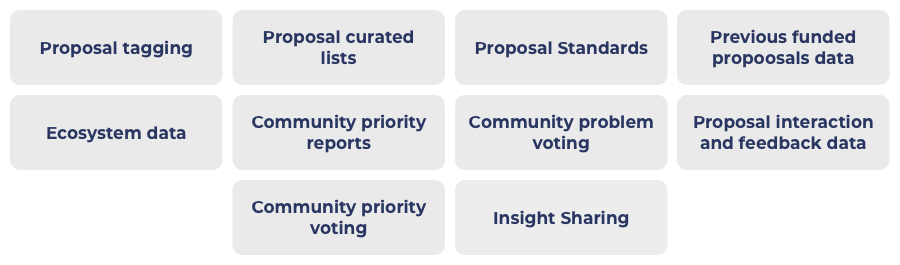
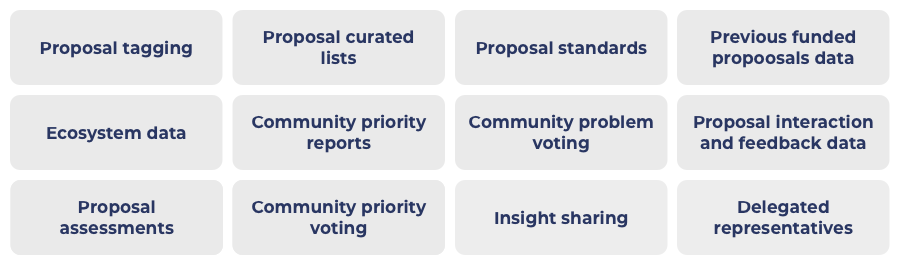
GitBook: [#98] No subject

diff --git a/what-is-funding-categorisation.md b/what-is-funding-categorisation.md
@@ -6,32 +6,30 @@ description: Explaining what funding categorisation is and why it is important
 
 ### What is funding categorisation?
 
-Funding categorisations are incentive structures that allow people to request funding for initiatives they want to contribute towards.&#x20;
+A funding categorisation is an incentive structure that allows people to request funding for certain initiatives.&#x20;
 
-Initiatives submitted as proposals will need to match the purpose and scope of the funding categorisation to be considered.
+Initiatives are submitted as proposals and will need to match the purpose and scope of the funding categorisation to be accepted and considered for voting.
 
-Funding categorisations can be focussed on funding ideas that someone wants to execute or for funding contributors that are looking to work in the ecosystem.
+Funding categorisations can be focussed on funding ideas that someone wants to execute or could be focussed on funding contributors that are looking to work in the ecosystem.
 
-Idea based funding categorisations will group together certain focus areas into each categorisation. Examples focus areas could include DeFi, events or identity tools & software.
+Idea based funding categorisations will group together certain focus areas into the categorisation. Examples focus areas could include DeFi, events or identity tools & software.
 
-The community uses funding categorisations by submitting proposals into each categorisations that gets used in a funding round with proposals about either the idea they intend to execute or what they would like to work on as a contributor depending on the categorisation.
+Once funding categorisations are defined and being used in a funding round the community would submit proposals into the categorisation that their initiative is relevant for.
 
-At the voting stage the community would compare the proposals submitted in each categorisation to then vote on which proposals they would like to receive funding.
+At the voting stage the community would compare the proposals submitted in a funding categorisation and then vote on which proposals they want to receive funding.
 
-Funding categorisations are used in funding rounds. Funding rounds will have a total available budget for incentivising high impact initiatives.
-
-Each funding categorisation used in a funding round will have an allocated maximum budget. This budget comes out of the total available amount for the funding round. The budgets of all the categorisations combined should equal the total funding available for that funding round.
+Funding categorisations are used in each funding round. Funding rounds have a total available budget for incentivising high impact initiatives. Each funding categorisation used in a funding round will have an allocated budget. This budget for the funding categorisation comes out of the total available amount from the funding round. The budgets of all the categorisations combined should equal the total funding available for that funding round.
 
 
 
 ### Why is funding categorisation important?
 
-Funding categorisations determine what incentives exist for the community to participate in an ecosystem. Categorisations determine what ideas will be considered for funding and what type of contributor can be funded.
+Funding categorisations determine what incentives exist that the community can participate in to support, grow and improve the ecosystem. Categorisations determine what ideas will be considered for funding and also what types of contributor can be funded.
 
-The categorisations used in a given funding round will determine which focus areas receive access to funding and which areas don’t. Categorisations will determine what exact funding each area has access to.
+The categorisations being used determine which focus areas receive access to funding and the exact amount of funding they have access to and which focus areas don’t have any access to funding.
 
-Both of these factors are why funding categorisation is important. Categorisations determine what areas can be stifled due to a lack of funding and which areas have more chance to flourish due to better access to funding.
+The incentive structures that exist and the access to funding is why funding categorisations are so important. Categorisations determine what areas can be stifled due to a lack of funding and which areas have more funding access that can help them to flourish.
 
-Using more effective approaches to funding categorisation will mean helping to enable the most promising and impactful ideas and contributors to request and potentially receive funding.
+Using effective approaches to funding categorisation means ensuring the most promising and impactful ideas and contributors are able to request and potentially receive funding.
 
-Funding categorisations impact the overall efficiency, simplicity, flexibility, scalability and fairness of a funding process. Categorisations also impact whether the community is able to effectively direct funding to high impact initiatives and what level of healthy competition is created due to the categorisations being used.
+Funding categorisations impact the overall efficiency, simplicity, flexibility, scalability and fairness of the funding process. Categorisations also impact how the community is able to effectively direct funding to high impact initiatives and what level of healthy competition exists due to the categorisations being used.

diff --git a/categorisation-analysis/approaches-for-directing-funding.md b/categorisation-analysis/approaches-for-directing-funding.md
@@ -34,6 +34,18 @@ The other main issue for challenge setting as a way to direct funding is it lead
 
 ### **Alternative approaches**
 
+**Proposal assessments** (In progress)
+
+The Catalyst funding process is already using a process to assess proposals. This process is still in its very early stages and is not based on a lot of analysis and research. One area that will be important to help with improving the approach of proposal assessments is by defining proposal standards that help to analyse what makes a good proposal structure with what information is most needed. Determining where to apply objective and factual assessment as well as expert review is another area that needs further work to determine how proposals can be assessed both efficiently and effectively. Proposal assessments can help to direct funding by giving the voters more information about the overall quality of the proposal against different factors such as how feasible or auditable the proposal is.
+
+****
+
+**Delegated Representatives** (In progress)
+
+The first version of using delegated representatives is already in progress and will be used in upcoming funding rounds. Delegated representatives will allow a voter to delegate their voting power to another community member to make the vote on their behalf. This helps individuals who do not have the time or capacity to do a vote themselves and would like to participate by finding and trusting an individual who represents their views. In future evolutions of delegated representatives the implementation will become more precise so people are able to delegate their voting power for certain focus areas in the ecosystem. This allows them to focus on voting on the areas they know or are passionate about and delegate voting power to others they trust for areas they don't have the same expertise or capacity to participate in. Delegated representatives help with directing funding as it provides a path for experts on certain areas to be compensated for spending time trying to effectively vote on which initiatives could be the most impactful.
+
+
+
 **Proposal tagging** (Short term achievable)
 
 Proposal tagging would help with directing funding as the better that proposals can be tagged with the relevant topics and areas the better that voting tools can allow people to filter proposals. The easier this is the more people can ensure they vote on areas that they believe are most important. This is an important area to integrate when using broader categorisation so it's still easy to traverse a larger number of proposals.
